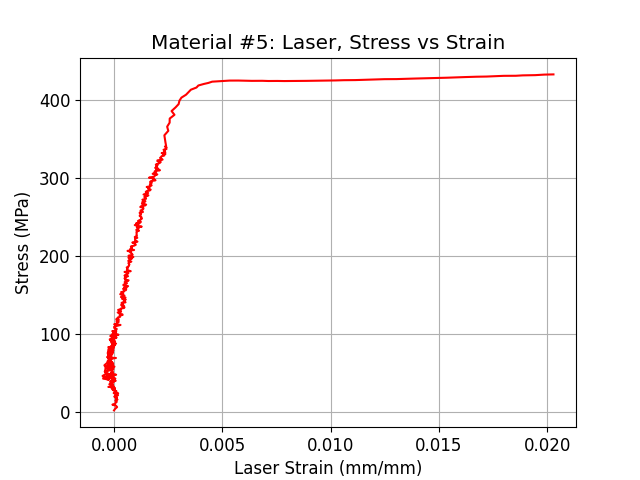
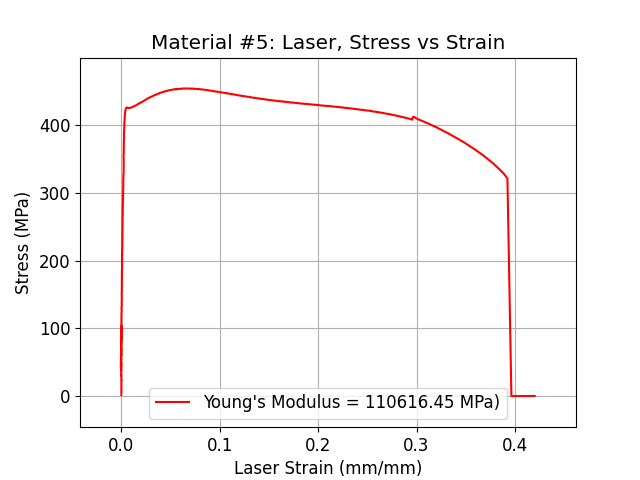
made modulus functions

diff --git a/src/analysis.py b/src/analysis.py
@@ -1,0 +1,76 @@
+"""
+Functions related to analysing results
+"""
+# IMPORTS
+#####################
+# Dependancies
+from scipy import io
+import matplotlib.pyplot as plt
+import numpy as np
+import csv
+import pandas as pd
+import os
+
+
+def StrainProcess(data: pd.DataFrame, test_num: np.int8, sample_dimensions: np.array):
+    '''
+    Process the strain values.
+
+    Parameters:
+    -----------   
+    data : pd.DataFrame
+        data from sensors
+    test_num : np.int
+        sample number
+    sample_dimensions : np.array
+        averaged cross-sectional area of the samples
+
+    Returns:
+    -----------   
+    parsed_data : pd.DataFrame
+        dataframe after processing for strain values
+    '''
+
+    # Rename columns
+    parsed_data = data.rename(columns={'X_Value': 't', 'Untitled': 'MTS_F', 'Untitled 1': 'MTS', 'Untitled 2': 'Laser', 'Untitled 3': 'Strain Guage 1', 'Untitled 4': 'Strain Guage 2', 'Untitled 5': 'MTS_stress'})
+    
+    parsed_data.MTS_stress = parsed_data['MTS_F'] / (sample_dimensions['B' + str(test_num)]['width'] * sample_dimensions['B' + str(test_num)]['thickness'])
+    parsed_data.Laser = ((parsed_data['Laser']-parsed_data['Laser'][0])/parsed_data['Laser'][0])
+    parsed_data.MTS = -((parsed_data['MTS']-parsed_data['MTS'][0])/parsed_data['MTS'][0])
+    parsed_data['Strain Guage 1'] = -1 * parsed_data['Strain Guage 1'][0:730] # filtering out some 'post guage break' 
+    parsed_data['Strain Guage 2'] =      parsed_data['Strain Guage 2'][0:730]
+
+    # print(parsed_data[0:500])
+    if test_num == 1:
+        parsed_data.Laser = parsed_data.Laser[0:985] # Filtering out noise
+    
+    return(parsed_data)
+
+def ModulusProcess(data: pd.DataFrame, test_num: np.int8):
+    '''
+    Calculate the young's modulus of the sample.
+
+    Parameters:
+    -----------   
+    data : pd.DataFrame
+        data from sensors
+    test_num : np.int
+        sample number
+
+    Returns:
+    -----------   
+    modulus : np.int
+        elastic modulus for that sample
+    '''
+    end_indices = [600, 70, 250, 550, 500] # region within which each graph is linear, determined observationally
+    
+    end_ind = end_indices[test_num-1]
+
+    # print(data[['MTS_stress', 'Laser']][0:end_ind])
+
+    if test_num == 3:
+        modulus, intercept = np.polyfit(data['Laser'][0:end_ind], data.MTS_stress[0:end_ind], deg=1)
+    else:
+        modulus, intercept = np.polyfit(data['Strain Guage 2'][0:end_ind], data.MTS_stress[0:end_ind], deg=1)
+    
+    return modulus

diff --git a/src/graphing.py b/src/graphing.py
@@ -12,7 +12,7 @@ import pandas as pd
 import os
 
 
-def StrainGraph(data: pd.DataFrame, test_num: np.int8, sensor: np.array, save: bool):
+def StrainGraph(data: pd.DataFrame, test_num: np.int8, sensor: np.array, modulus : np.float64, save: bool):
     '''
     PLots the strain graphs.
 
@@ -24,29 +24,40 @@ def StrainGraph(data: pd.DataFrame, test_num: np.int8, sensor: np.array, save: b
         sample number
     sensor : np.array
         which sensors a plot must be made for
+    modulus : np.float64
+        elastic modulus of that material
     save : bool
         save graphs or not
     '''
-    plot_ind = 600
+    # end_indices = [600, 70, 250, 550, 500]
+    
+    # end_ind = end_indices[test_num-1]
+
+    end_ind = -1
 
     # finding plot limits:
-    max_strain = max(data[['MTS', 'Laser', 'Strain Guage 1', 'Strain Guage 2']][0:plot_ind].max(axis=1))
+    max_strain = max(data[[ 'Laser', 'Strain Guage 1', 'Strain Guage 2']][0:end_ind].max(axis=1))
     max_stress = max(data['MTS_stress'])
 
     for s in sensor:
         print(" Generating " + str(s) + " strain plot..")
-        plt.plot(data[s][0:plot_ind], data.MTS_stress[0:plot_ind], color = 'r')
+        plt.plot(data[s][0:end_ind], data.MTS_stress[0:end_ind], color = 'r')
         params = {'mathtext.default': 'regular' }          
         plt.rcParams.update(params)
         plt.rcParams.update({'font.size': 12})
         plt.title(f'Material #{test_num}: {str(s)}, Stress vs Strain')
         plt.xlabel(str(s) + ' Strain (mm/mm)')
         plt.ylabel('Stress (MPa)')
-        # plt.legend([str(s) + ' Data - Material #' + str(test_num)])
+
+        # x = np.linspace(0, 1, 100)
+        # y = x*modulus
+        # plt.plot(x, y)
+
+        plt.legend([f'Young\'s Modulus = {round(modulus, 2)} MPa)'])
         plt.grid()
         # if s not in ['Strain Guage 1', 'Strain Guage 2']:
-        #     plt.xlim((max_strain*-0.1,max_strain*1.1))
-        #     plt.ylim((max_stress*-0.1,max_stress*1.1))
+        plt.xlim((max_strain*-0.1,max_strain*1.1))
+        plt.ylim((max_stress*-0.1,max_stress*1.1))
         if save:
             os.makedirs(f'results/Test_{test_num}-graphs/', exist_ok=True)
             plt.savefig(f'results/Test_{test_num}-graphs/{s}_strain.png')

diff --git a/src/main.py b/src/main.py
@@ -13,6 +13,7 @@ import pandas as pd
 
 # Custom Functions/libraies
 from graphing import *
+from analysis import *
 
 # DEFINITIONS
 ########################
@@ -41,10 +42,6 @@ for test_num in range(1,6):
     ##############################
     raw_data = pd.read_csv(file_path, skiprows=skip_rows, sep = '\t')
 
-
-    # Rename columns
-    parsed_data = raw_data.rename(columns={'X_Value': 't', 'Untitled': 'MTS_F', 'Untitled 1': 'MTS', 'Untitled 2': 'Laser', 'Untitled 3': 'Strain Guage 1', 'Untitled 4': 'Strain Guage 2', 'Untitled 5': 'MTS_stress'})
-    
   
     # PROCESSING DATA
     ########################
@@ -52,26 +49,22 @@ for test_num in range(1,6):
     print("Beginning Analysis...")
     print("=========================================")
 
-    parsed_data.MTS_stress = parsed_data['MTS_F'] / (sample_dimensions['B' + str(test_num)]['width'] * sample_dimensions['B' + str(test_num)]['thickness'])
-    parsed_data.Laser = ((parsed_data['Laser']-parsed_data['Laser'][0])/parsed_data['Laser'][0])
-    parsed_data.MTS = -((parsed_data['MTS']-parsed_data['MTS'][0])/parsed_data['MTS'][0])
-    parsed_data['Strain Guage 1'] = -1 * parsed_data['Strain Guage 1'][0:800] # filtering out some 'post guage break' 
-    parsed_data['Strain Guage 2'] =      parsed_data['Strain Guage 2'][0:800]
+    parsed_data = StrainProcess(raw_data, test_num, sample_dimensions)
 
-    print(parsed_data[0:500])
-    if test_num == 1:
-        parsed_data.Laser = parsed_data.Laser[0:985] # Filtering out noise
+    modulus = ModulusProcess(parsed_data, test_num)
+
+    print(modulus)
 
     # print(parsed_data)
     print("Analysis Complete...")
     print("=========================================")
 
-    # PROCESSING DATA
+    # GRAPHING DATA
     ########################
 
     sensor = ['MTS', 'Laser', 'Strain Guage 1', 'Strain Guage 2']
     save = True
-    StrainGraph(parsed_data, test_num, sensor, save)
+    StrainGraph(parsed_data, test_num, sensor, modulus, save)
     print("=========================================")
 
     # print("Saving Data CSVs...")
